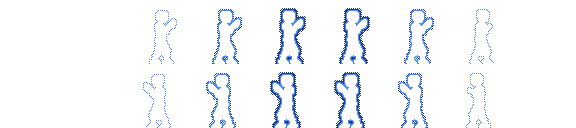
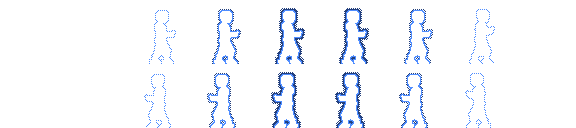
Universal Arts round 3 (Christopher 2026-10-21): Chakra Bullet E/W approved (v2); Charge Chakra v4 (hands lowered into a meditative hold, flat open palms up at the belly; the raised seal read as a recoil); Chakra Drain v3 (the drained chakra flows up the drainer's arms in travelling chakra-blue band
Claude-Session: https://claude.ai/code/session_018Xz3N7CuaPcgmmj1YYNRTC

diff --git a/tools/universal.py b/tools/universal.py
@@ -21,6 +21,7 @@ CLOSED = load(D + 'downed.json')['expressions']['shapes']['closed']
 def h(k, side): return copy.deepcopy(HR['arms'][side][k])
 STAT = 'CANDIDATE 2026-10-20 (E/W; W mirrors E; S/N to author after approval)'
 APPROVED = {s_: 'E/W approved by user 2026-10-21 (v1; W mirrors E); S/N to author' for s_ in ('guardianBarrier', 'solarFlare', 'summonCompanion')}
+APPROVED['chakraBullet'] = 'E/W approved by user 2026-10-21 (v2, 870541e; W mirrors E); S/N to author'
 UNUSED = 'UNUSED (Christopher 2026-10-21): shelved, not offered anywhere and no further animation work until its use is decided; E/W v1 draft kept for reference'
 APPROVED.update(ironMountain=UNUSED, heavenlyKick=UNUSED)
 
@@ -41,6 +42,7 @@ POSES += [leg('duel-lead', (32, 42), (34, 50), 35), leg('duel-rear', (31, 42), (
 FXP, FXPAL = HR_FX['patterns'], HR_FX['palette']
 BRACE = dict(ln='cb-brace-rear', lf='cb-brace-lead')   # the hands brace on the thighs
 SEAL_N, SEAL_F = band(-48, -150, fistKind='palm'), band(-60, -146, fistKind='palm')   # tiger seal: both open hands pressed together upright in front of the chin, fingers up
+MED_N, MED_F = band(-8, -75, fistKind='palm'), band(-12, -80, fistKind='palm')   # meditative hold: forearms level, open hands palm up resting in front of the belly (Charge Chakra v4)
 
 # ---------- ninjutsu fx patterns (white/neutral; d/g = neutral greys for shadow techniques) ----------
 CHAKRA = ('#4f8dff', '#23407e')   # the testbed chakra bar: --chakra #4f8dff, gradient from #23407e (Christopher 2026-10-21: chakra auras match the bar)
@@ -91,15 +93,15 @@ def nfx(rule, frames): return {'rule': rule, 'top': True, 'palette': NPAL, 'patt
 
 CLIPS = {   # state: (ability, active frame, intent, frames, expressions, aura widths)
  'chargeChakra': ('Charge Chakra', 4,
-  'Charge Chakra (free focus action, recover chakra): from the guard the fighter sinks into the knees and presses both open hands together upright in front of the chin, eyes closed in focus; holding the seal, an aura in the chakra bar blue swells around the whole body in a slow pulse as the chest rises with the breath, then fades; the eyes open, the hands part and come back up into the guard (Christopher 2026-10-21: eyes closed, aura the colour of the chakra bar).', [
+  'Charge Chakra (free focus action, recover chakra): from the guard the fighter sinks into the knees and lowers both open hands, palms up, to rest in front of the belly in a meditative hold, eyes closed in focus; holding it, an aura in the chakra bar blue swells around the whole body in a slow pulse as the chest rises with the breath, then fades; the eyes open, the hands part and come back up into the guard (Christopher 2026-10-21: eyes closed, aura the colour of the chakra bar; v4: hands lowered into a meditative state, the raised seal read as a recoil).', [
      g(),
-     g(an=band(-5, -140), af=band(-25, -145), bob=(2, 2, 2), lean=(0, 1), **LOW),
-     g(an=SEAL_N, af=SEAL_F, bob=(3, 3, 3), lean=(0, 0), **LOW),
-     g(an=SEAL_N, af=SEAL_F, bob=(3, 3, 3), lean=(0, 0), **LOW),
-     g(an=SEAL_N, af=SEAL_F, bob=(2, 3, 3), lean=(0, -1), **LOW),     # in-breath: chest lifts, head a row higher
-     g(an=SEAL_N, af=SEAL_F, bob=(2, 3, 3), lean=(0, -1), **LOW),
-     g(an=SEAL_N, af=SEAL_F, bob=(3, 3, 3), lean=(0, 0), **LOW),
-     g(an=band(-5, -140), af=band(-25, -145), bob=(2, 2, 2), lean=(0, 1), **LOW),
+     g(an=band(-15, -105), af=band(-20, -110), bob=(2, 2, 2), lean=(0, 1), **LOW),
+     g(an=MED_N, af=MED_F, bob=(3, 3, 3), lean=(0, 0), **LOW),
+     g(an=MED_N, af=MED_F, bob=(3, 3, 3), lean=(0, 0), **LOW),
+     g(an=MED_N, af=MED_F, bob=(2, 3, 3), lean=(0, -1), **LOW),     # in-breath: chest lifts, head a row higher
+     g(an=MED_N, af=MED_F, bob=(2, 3, 3), lean=(0, -1), **LOW),
+     g(an=MED_N, af=MED_F, bob=(3, 3, 3), lean=(0, 0), **LOW),
+     g(an=band(-15, -105), af=band(-20, -110), bob=(2, 2, 2), lean=(0, 1), **LOW),
      g()],
   [None, None, 'closed', 'closed', 'closed', 'closed', 'closed', None, None],
   [0, 0, 1, 2, 3, 3, 2, 1, 0],
@@ -213,7 +215,7 @@ CLIPS = {   # state: (ability, active frame, intent, frames, expressions, aura w
        fx=nfx('chakra bar blue: the aura (drawn by aura()) swells, then draws into an orb at the fingertip that fires with a burst',
               [(5, [('borb', [55, 24])]), (6, [('borbBig', [55, 25])]), (7, [('brelease', [57, 22])]), (8, [('bspark', [61, 22])])]))),
  'chakraDrain': ('Chakra Drain', 3,
-  'Chakra Drain (debuff, steals chakra; Christopher 2026-10-21: plays like a short grapple, the chakra aura leaving the target in the chakra bar blue): the fighter steps in and grabs the target in a collar tie, both hands on the neck and shoulder, pulls them in and holds while wisps of chakra-blue light stream off the target into the gripping hands; then shoves them off and steps back into the guard. Pairs with chakraDrained on the target.', [
+  'Chakra Drain (debuff, steals chakra; Christopher 2026-10-21: plays like a short grapple, the chakra aura leaving the target in the chakra bar blue): the fighter steps in and grabs the target in a collar tie, both hands on the neck and shoulder, pulls them in and holds while wisps of chakra-blue light stream off the target into the gripping hands and flow up through both arms into the body, the drainer glowing faintly blue as it arrives (Christopher 2026-10-21 v3: the chakra flows out of the target through the arms of the user); then shoves them off and steps back into the guard. Pairs with chakraDrained on the target.', [
      g(),
      g(an=band(-70, -100, fistKind='palm'), af=band(-75, -105, fistKind='palm'), bob=(1, 1, 1), lean=(1, 3), root=(4, 0)),   # steps in, hands reaching
      g(an=band(-80, -80, fistKind='palm'), af=band(-84, -84, fistKind='palm'), bob=(1, 1, 1), lean=(1, 4), root=(4, 0)),      # grabs
@@ -224,8 +226,8 @@ CLIPS = {   # state: (ability, active frame, intent, frames, expressions, aura w
      g(an=band(-60, -120), af=G_F, bob=(1, 1, 2), lean=(0, 2), root=(-4, 0)),
      g(root=(-4, 0))],
   [None, None, 'squint', 'squint', 'squint', 'squint', None, None, None],
-  None,
-  dict(fps=10, hitbox=[44, 20, 10, 10], damage='light', rm='E: x +4, +4 stepping in to the tie, back -4, -4',
+  [0, 0, 0, 0, 1, 1, 0, 0, 0],
+  dict(fps=10, auraColors=CHAKRA, flow=(3, 4, 5), hitbox=[44, 20, 10, 10], damage='light', rm='E: x +4, +4 stepping in to the tie, back -4, -4',
        fx=nfx('chakra bar blue wisps streaming off the target (in front) into the gripping hands while the tie holds',
               [(3, [('bwisp', [58, 22]), ('bwisp2', [54, 26])]), (4, [('bwisp2', [56, 21]), ('bwisp', [51, 25]), ('bspark', [60, 27])]), (5, [('bwisp', [53, 22]), ('bwisp2', [49, 26])])]))),
  'chakraDrained': ('Chakra Drain (target)', 3,
@@ -327,6 +329,8 @@ def spec(state):
              state: {'frames': list(range(n)), 'fps': 10, 'next': 'guard', 'ability': ab}}
     s = build(HR, state, fr, status=APPROVED.get(state, STAT), newPoses=POSES, clips=clips, events=events, rmRule=x.get('rm', 'in place'), intent=intent, fx=x.get('fx'))
     s['fps'] = clips[state]['fps'] = x.get('fps', 10); s.pop('approved', None); s.pop('keyPoses', None)
+    if state == 'chargeChakra':   # meditative hold: the open hand lies flat, palm up, fingers forward (not the upright grip-hunt hand)
+        s['arms']['band']['palmUp'] = {'use': 'open hand resting flat, palm up, fingers pointing forward (Charge Chakra meditative hold)', 'anchor': [0, 1], 'rows': ['.mLLLLm', 'mLLLLLL', '.sDDDsm']}
     if not x.get('fx'): s.pop('fx', None)
     s['expressions'] = copy.deepcopy(HR['expressions']); s['expressions']['frames'] = {'E': ex}
     s['expressions']['shapes']['closed'] = copy.deepcopy(CLOSED)   # eyes shut (focus)
@@ -341,7 +345,32 @@ def aura(state):
     if old:
         new = Image.open(f).convert('RGBA'); new.alpha_composite(old); new.save(f)   # splash fx over the aura
 
+def flow(state):
+    """after --aura: the drained chakra running up the drainer's arms (Christopher 2026-10-21): on each grip frame the
+    arm pixels from the hand back toward the shoulder turn chakra blue in bands that travel toward the shoulder, reaching
+    the hands, then the elbows, then the whole arm (fx layer, over the arms)"""
+    from PIL import Image
+    x = CLIPS[state][6]; d = D + state + '/'; f = d + 'fx.png'
+    fx = Image.open(f).convert('RGBA'); hexc = lambda c: tuple(int(c[i:i + 2], 16) for i in (1, 3, 5)) + (255,)
+    lite, mid = hexc('#9cc0ff'), hexc(CHAKRA[0])
+    arms = [Image.open(d + n).convert('RGBA') for n in ('arms.png', 'far-arm.png') if os.path.exists(d + n)]
+    spec_ = load(D + state + '.json'); dirs = spec_['directions']
+    for step, k in enumerate(x['flow']):
+        reach = (5, 10, 64)[min(step, 2)]
+        for d_ in ('E', 'W'):
+            r = dirs.index(d_); sg = 1 if d_ == 'E' else -1
+            for a in arms:
+                pts = [(X, Y) for Y in range(64) for X in range(64) if (q := a.getpixel((k * 64 + X, r * 64 + Y)))[3] and q[:3] != (0, 0, 0)]
+                if not pts: continue
+                tip = max(sg * X for X, _ in pts)
+                for X, Y in pts:
+                    u = tip - sg * X   # distance back from the hand
+                    if u > reach: continue
+                    fx.putpixel((k * 64 + X, r * 64 + Y), lite if (u + 2 * step) % 4 < 2 else mid)
+    fx.save(f); print(state, 'arm flow', x['flow'])
+
 if __name__ == '__main__':
+    if '--flow' in sys.argv[1:]: flow(sys.argv[sys.argv.index('--flow') + 1]); sys.exit()
     a = sys.argv[1:]
     if '--aura' in a: aura(a[a.index('--aura') + 1]); sys.exit()
     for st in (a or CLIPS): spec(st)
